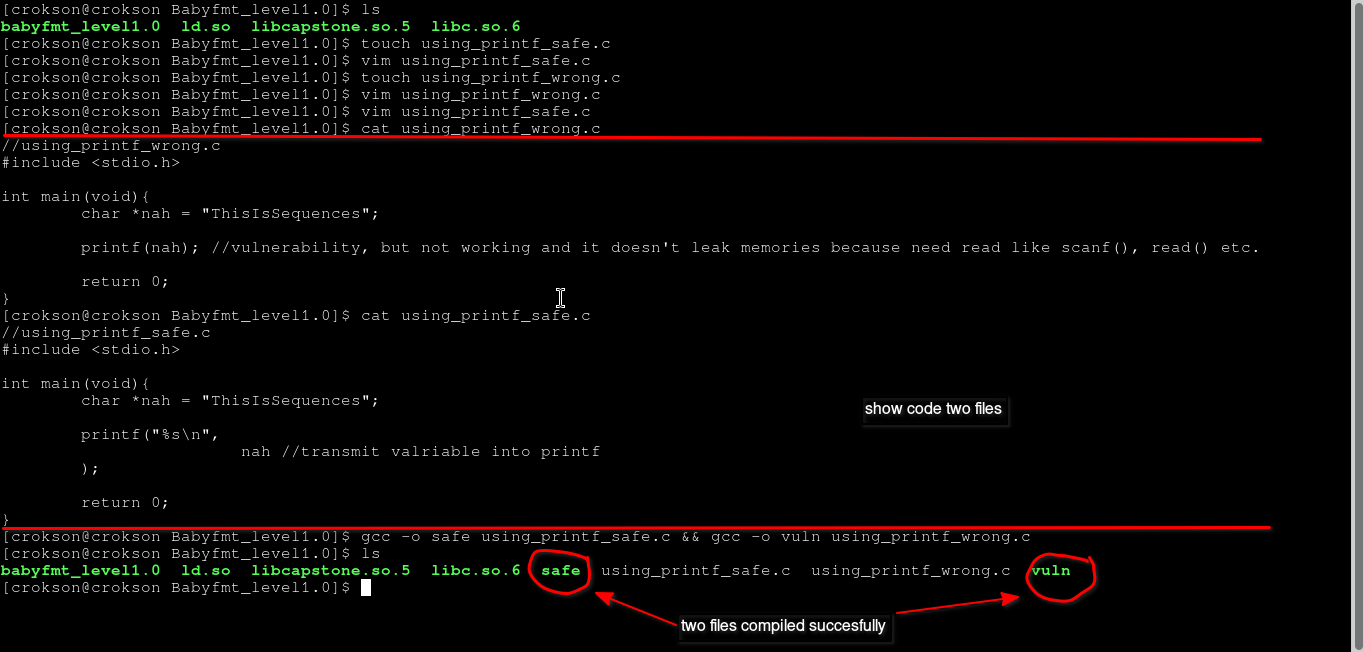
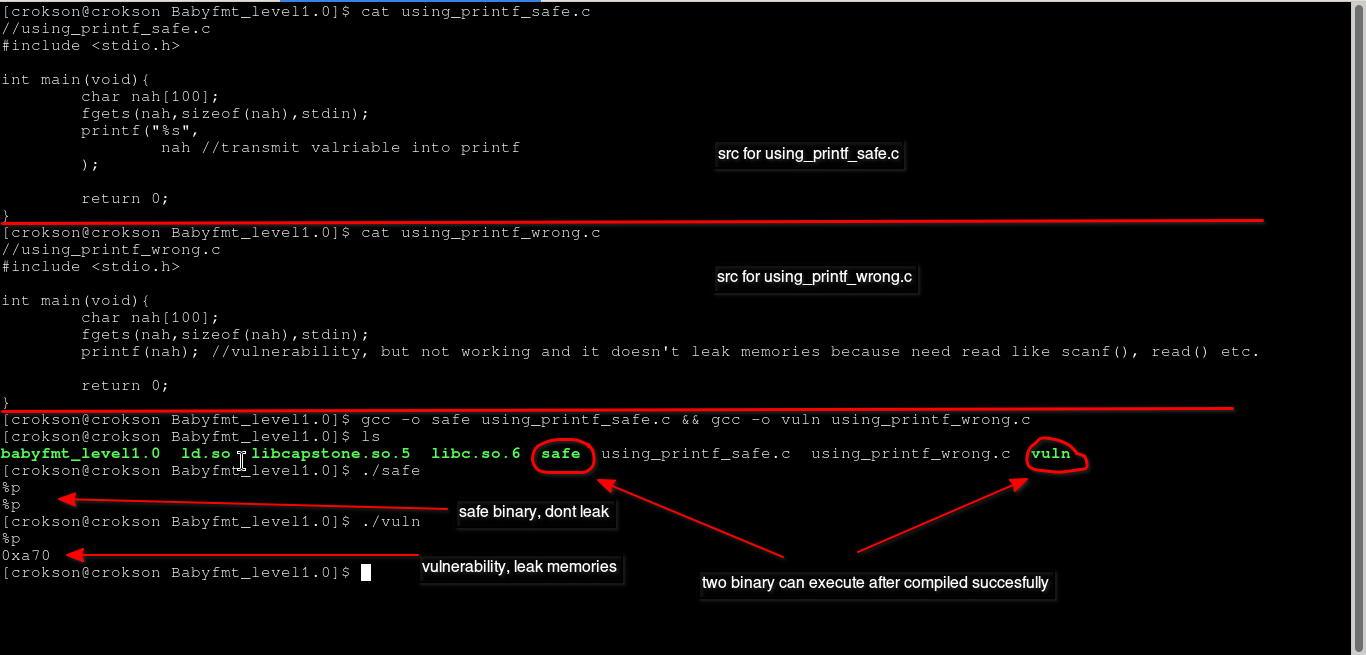
Add files via upload

diff --git a/PwnCollege/Format-strings-vulnerability/WriteUp.md b/PwnCollege/Format-strings-vulnerability/WriteUp.md
@@ -2,6 +2,7 @@
 > in PwnCollege
 
 start write date : 04/06/2026
+
 finshed : 
 
 **index**
@@ -474,9 +475,9 @@ flag will print, because open successfully file `/flag`
 #include <stdio.h>
 
 int main(void){
-	char *nah = "ThisIsSequences";
-
-	printf("%s\n",
+	char nah[100];
+	fgets(&nah,sizeof(nah),stdin);
+	printf("%s",
 			nah //transmit valriable into printf
 	);
 
@@ -491,8 +492,8 @@ and :
 #include <stdio.h>
 
 int main(void){
-	char *nah = "ThisIsSequences";
-
+	char nah[100];
+	fgets(&nah,sizeof(nah),stdin);
 	printf(nah); //vulnerability, but not working and it doesn't leak memories because need read like scanf(), read() etc.
 
 	return 0;
@@ -507,6 +508,6 @@ now, we lets debug it with gdb :
 
 > gdb -q safe
 
-![alt text](image24.png)
+//image 24
 
 #4.Exploit
